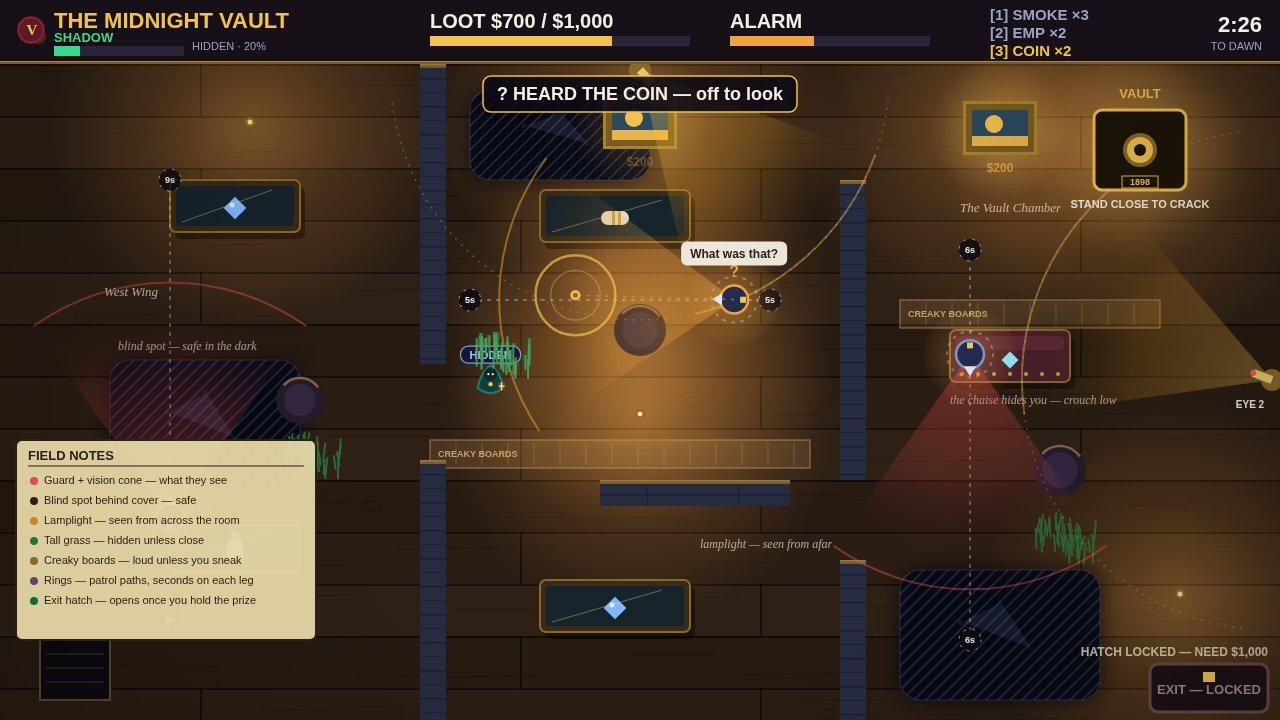
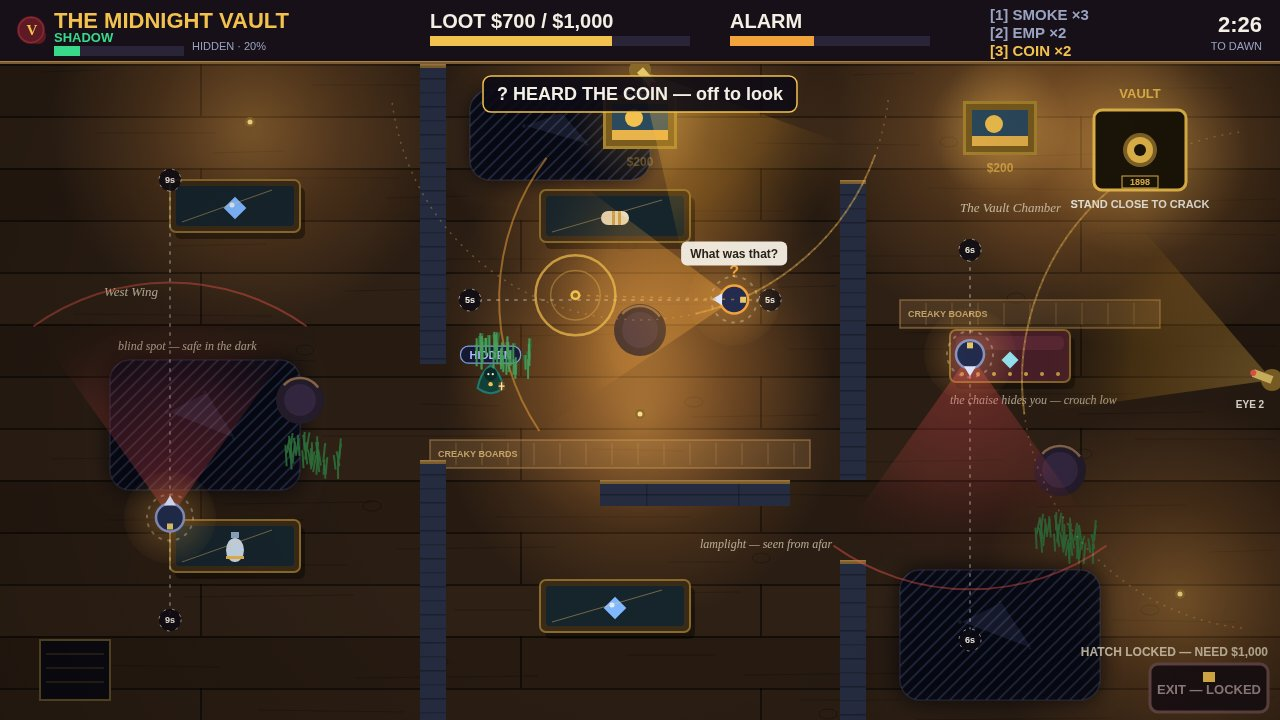
v7-early: de-clutter cover (field notes closed) + ghost getaway ($2,650, SIXTY-FIVE SECONDS)
- Cover: FIELD NOTES closed in the cover shot (open panel covered the
  west shadow pool + entrance corner; v6 duel called the floor busier
  than the benchmark's). All depth cues still draw.
- Getaway: vault approached around the top of the right partition
  (the v6 diagonal slid the thief along the wall in guard 2's view,
  +2.4s spotted) and the exit left through the west shadow pool
  (EYE 2 caught the v6 east-side walk for 2.3s). Run now wins unseen:
  spotted 0.58s, GHOST +$250, haul $2,650, 0 gadgets.
- Getaway seconds spelled out (numberWords): the judge misread v6's
  '59 SECONDS' as '50'. Amount stays a numeral.
- verify-v7early: 29 checks pass; deterministic dossier.

Changed region(s): [[0.0, 0.6111, 0.25, 0.9167]]

diff --git a/game/src/shots.js b/game/src/shots.js
@@ -66,8 +66,16 @@ function autopilot(state, waypoints, seconds, useSmokeAt = -1, sneakAt = -1) {
 const TO_PAINTING_A = [[320, 640], [320, 420], [300, 200], [250, 128]];
 const TO_GEMS = [[320, 420], [433, 412], [560, 420], [640, 420]];
 const TO_PAINTING_C = [[780, 520], [853, 520], [1000, 300], [1000, 128]];
-const TO_VAULT = [[1140, 150]];
-const TO_EXIT = [[1180, 500], [1190, 690]]; // step into the open exit: the win fires
+// To the vault AROUND the top of the right partition, not diagonally into
+// it: the v6 diagonal ran the thief into the wall's west face, where he
+// slid north for 2.4 s in guard 2's view. North first (past guard 0's beat
+// end), then east along the top — past painting C, which the v6 route never
+// reached — to the vault. The channel cracks it for real.
+const TO_VAULT = [[780, 150], [1140, 150]];
+// To the exit through the west shadow pool, not down the east wall: EYE 2
+// watches the east side and caught the v6 walk for 2.3 s. The shadow
+// shrinks its range below the route, so the thief slips out unseen.
+const TO_EXIT = [[1000, 600], [1190, 690]]; // step into the open exit: the win fires
 
 /** The cover: mid-heist, thief deep in the gallery, cones sweeping, alarm live. */
 function shotCover(state) {
@@ -76,9 +84,13 @@ function shotCover(state) {
   // Slip into the tall grass, face north-east toward the centre guard's
   // beat, and toss a coin onto it: the guard leaves his patrol to look,
   // "What was that?" over his head, while the thief sits hidden in the
-  // grass, out of the lamplight. Field notes open. (The guard is a real
-  // walk from the coin here — his beat starts east of the left wall, so
-  // he is ~180 px away at toss time, not on top of it.)
+  // grass, out of the lamplight. Field notes CLOSED in the cover: the
+  // open panel covers the west shadow pool and the entrance corner, and
+  // the v6 duel called the floor "busier" than the benchmark's. The depth
+  // stays in the game (SHADOW meter, patrol rings, creaky boards, named
+  // wings all still draw); the frame shows it without the cram.
+  // (The guard is a real walk from the coin here — his beat starts east
+  // of the left wall, so he is ~180 px away at toss time, not on top of it.)
   autopilot(state, [[490, 380]], 5);
   state.thief.facing = -Math.PI / 4; // north-east, onto the guard's beat
   state.tools.selected = 'coin';
@@ -87,7 +99,7 @@ function shotCover(state) {
     if (state.screen !== SCREEN_PLAY) break;
     stepGame(state, SAMPLE);
   }
-  state.fieldNotes = true;
+  state.fieldNotes = false;
   state.alarm = Math.max(state.alarm, 42); // the night is already tense
 }
 
@@ -122,14 +134,17 @@ function shotTools(state) {
   for (let i = 0; i < 72; i += 1) stepGame(state, SAMPLE);
 }
 
-/** The getaway: vault cracked, haul over target, thief racing for the exit. */
+/** The getaway: vault cracked, haul over target, thief racing for the exit.
+ *  Staged for a GHOST win: the north route to the vault and the shadow
+ *  route to the exit keep the whole run under 2 s spotted, so the Ghost
+ *  Bonus pays — haul $2,650, "never once spotted". No tools used. */
 function shotGetaway(state) {
   autopilot(state, TO_PAINTING_A, 12);
   autopilot(state, TO_GEMS, 16);
   // Sneak through the vault chamber: guard 2's beat is tight, and the
   // creaky boards on the approach stay silent under a sneaking thief.
   autopilot(state, TO_PAINTING_C, 14, -1, 0);
-  autopilot(state, TO_VAULT, 12, -1, 0); // stand by the vault; the channel cracks it
+  autopilot(state, TO_VAULT, 16, -1, 0); // north, then east along the top; the channel cracks it
   const vault = state.loot.find((l) => l.id === 'vault');
   if (vault && !vault.taken) {
     // Staging fallback: the frame is the getaway, whatever the channel did.
@@ -139,7 +154,7 @@ function shotGetaway(state) {
     state.lootValue += vault.value;
     state.stats.lootTaken += 1;
   }
-  autopilot(state, TO_EXIT, 10);
+  autopilot(state, TO_EXIT, 14);
 }
 
 /** Caught: the alarm maxes out and the run ends in handcuffs. */

diff --git a/game/src/render.js b/game/src/render.js
@@ -1028,6 +1028,20 @@ function drawVignette(ctx) {
 // the judge misread "$2,400 in 57 seconds" as "$2,500 in 17 seconds" and
 // "tools used: 0" as "Locks used: 0" at 20px. Big gold type, the amount and
 // the seconds separated, units spelled out — no small digits left to guess.
+// Spell a number out in words (0–999): the judge misreads small digits at
+// thumbnail size (v6's "59 SECONDS" read as "50"), and spelled-out units
+// killed the same misread in v5. The amount stays a numeral — the judge
+// reads amounts correctly.
+function numberWords(n) {
+  const ones = ['ZERO', 'ONE', 'TWO', 'THREE', 'FOUR', 'FIVE', 'SIX', 'SEVEN', 'EIGHT', 'NINE',
+    'TEN', 'ELEVEN', 'TWELVE', 'THIRTEEN', 'FOURTEEN', 'FIFTEEN', 'SIXTEEN', 'SEVENTEEN', 'EIGHTEEN', 'NINETEEN'];
+  const tens = ['', '', 'TWENTY', 'THIRTY', 'FORTY', 'FIFTY', 'SIXTY', 'SEVENTY', 'EIGHTY', 'NINETY'];
+  const n2 = Math.max(0, Math.min(999, Math.round(n)));
+  if (n2 < 20) return ones[n2];
+  if (n2 < 100) return tens[Math.floor(n2 / 10)] + (n2 % 10 ? `-${ones[n2 % 10]}` : '');
+  return `${ones[Math.floor(n2 / 100)]} HUNDRED${n2 % 100 ? ` ${numberWords(n2 % 100)}` : ''}`;
+}
+
 function drawOverlay(ctx, title, lines, accent, big) {
   ctx.fillStyle = 'rgba(8,6,16,0.78)';
   ctx.fillRect(0, 0, VIEW.width, VIEW.height);
@@ -1116,7 +1130,7 @@ export function render(ctx, state) {
     if (state.ghost) winLines.push('GHOST — never once spotted · +$250');
     winLines.push('', 'Press R to run it back');
     drawOverlay(ctx, 'CLEAN GETAWAY', winLines, COLORS.safe,
-      `HAUL $${state.winHaul.toLocaleString()} · ${Math.round(state.winTime)} SECONDS`);
+      `HAUL $${state.winHaul.toLocaleString()} · ${numberWords(state.winTime)} SECONDS`);
   } else if (state.screen === SCREEN_LOSE) {
     const why = state.caughtBy === 'alarm'
       ? 'The alarm hit 100% — the gallery locked down around you.'
